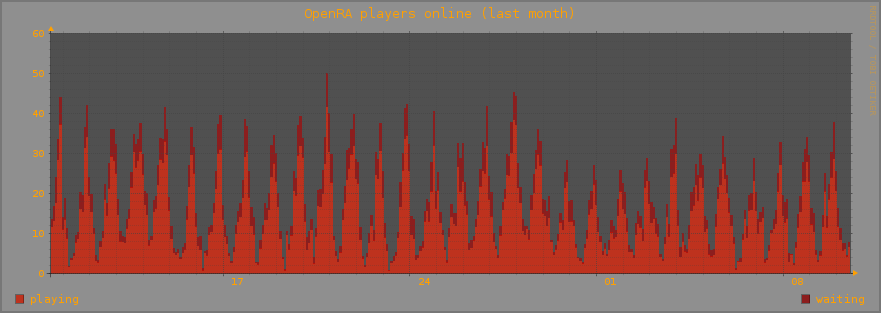
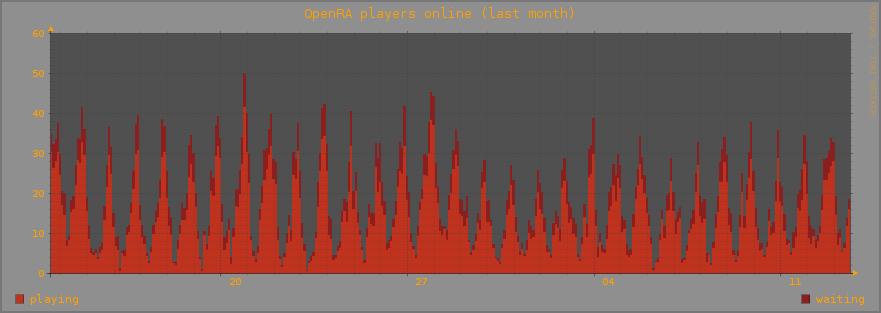
update db

diff --git a/log/redraw.ts b/log/redraw.ts
@@ -1,1 +1,1 @@
-2015-07-10 12:01:07
+2015-07-13 14:22:06
